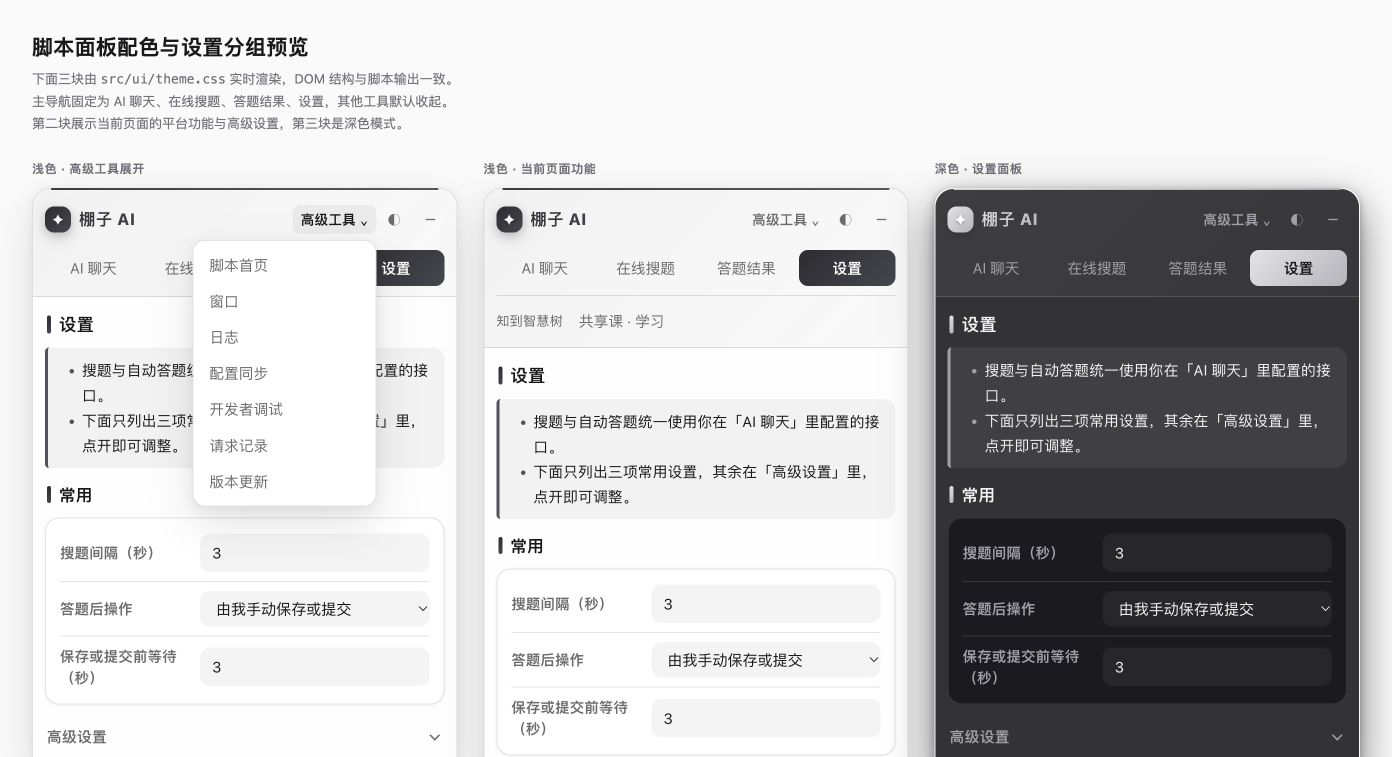
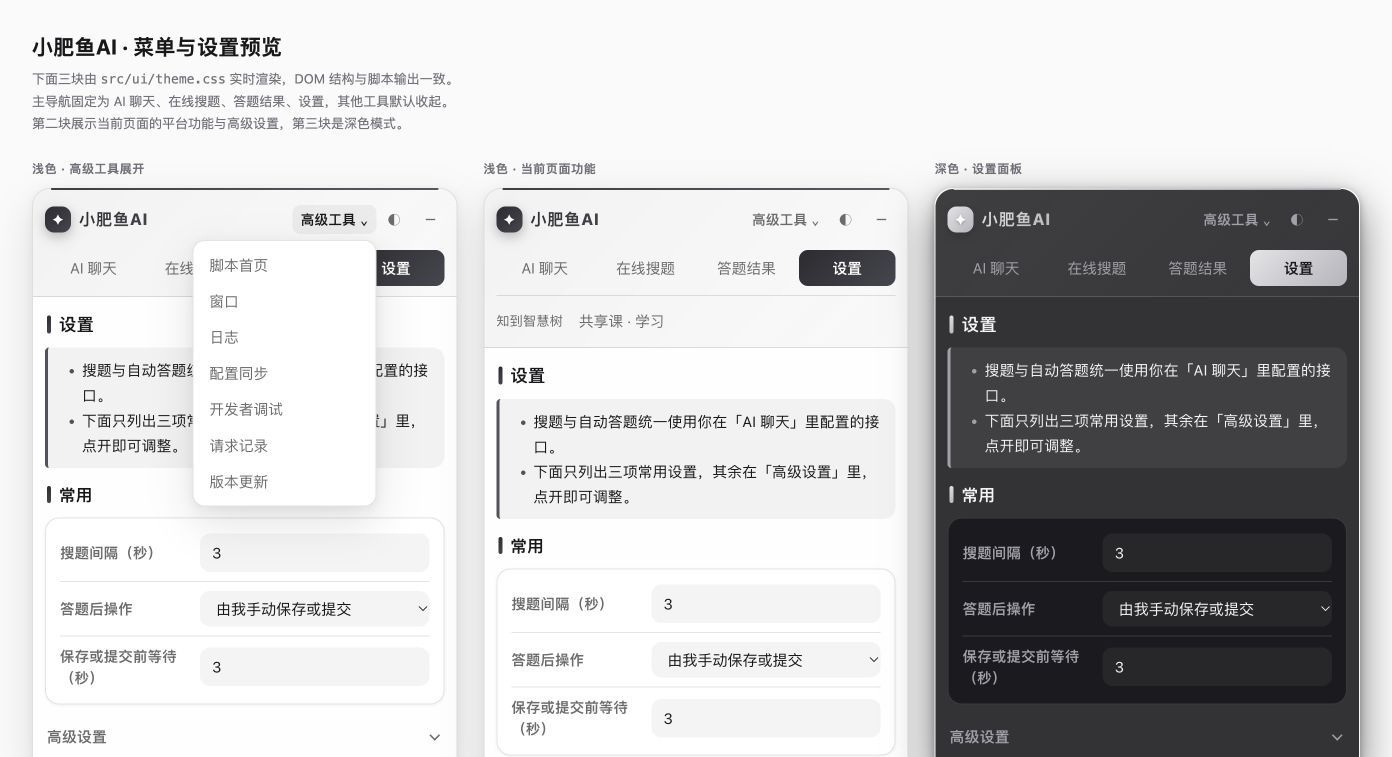
Rename the userscript and interface to 小肥鱼AI

diff --git a/preview/index.html b/preview/index.html
@@ -2,7 +2,7 @@
 <html lang="zh-CN">
 <head>
 <meta charset="utf-8">
-<title>脚本面板配色与设置分组预览</title>
+<title>小肥鱼AI · 菜单与设置预览</title>
 <style>
   :root { color-scheme: light; }
   body {
@@ -20,7 +20,7 @@
 </style>
 </head>
 <body>
-  <h1>脚本面板配色与设置分组预览</h1>
+  <h1>小肥鱼AI · 菜单与设置预览</h1>
   <p class="lede">
     下面三块由 <code>src/ui/theme.css</code> 实时渲染，DOM 结构与脚本输出一致。<br>
     主导航固定为 AI 聊天、在线搜题、答题结果、设置，其他工具默认收起。<br>
@@ -35,7 +35,7 @@
   <container-element>
     <header-element>
       <div class="header-layout"><div class="header-toolbar">
-        <div class="brand"><span class="brand-mark"></span><span class="brand-name">棚子 AI</span></div>
+        <div class="brand"><span class="brand-mark"></span><span class="brand-name">小肥鱼AI</span></div>
         <details class="advanced-tools" open>
           <summary>高级工具</summary><div class="tools-content"><button class="tool-item" type="button">脚本首页</button><button class="tool-item" type="button">窗口</button><button class="tool-item" type="button">日志</button><button class="tool-item" type="button">配置同步</button><button class="tool-item" type="button">开发者调试</button><button class="tool-item" type="button">请求记录</button><button class="tool-item" type="button">版本更新</button></div>
         </details>
@@ -73,7 +73,7 @@
   <container-element>
     <header-element>
       <div class="header-layout"><div class="header-toolbar">
-        <div class="brand"><span class="brand-mark"></span><span class="brand-name">棚子 AI</span></div>
+        <div class="brand"><span class="brand-mark"></span><span class="brand-name">小肥鱼AI</span></div>
         <details class="advanced-tools">
           <summary>高级工具</summary><div class="tools-content"><button class="tool-item" type="button">脚本首页</button><button class="tool-item" type="button">窗口</button><button class="tool-item" type="button">日志</button><button class="tool-item" type="button">配置同步</button><button class="tool-item" type="button">开发者调试</button><button class="tool-item" type="button">请求记录</button><button class="tool-item" type="button">版本更新</button></div>
         </details>
@@ -111,7 +111,7 @@
   <container-element>
     <header-element>
       <div class="header-layout"><div class="header-toolbar">
-        <div class="brand"><span class="brand-mark"></span><span class="brand-name">棚子 AI</span></div>
+        <div class="brand"><span class="brand-mark"></span><span class="brand-name">小肥鱼AI</span></div>
         <details class="advanced-tools">
           <summary>高级工具</summary><div class="tools-content"><button class="tool-item" type="button">脚本首页</button><button class="tool-item" type="button">窗口</button><button class="tool-item" type="button">日志</button><button class="tool-item" type="button">配置同步</button><button class="tool-item" type="button">开发者调试</button><button class="tool-item" type="button">请求记录</button><button class="tool-item" type="button">版本更新</button></div>
         </details>

diff --git a/xxx.js b/xxx.js
@@ -1,6 +1,6 @@
 // ==UserScript==
-// @name         棚子网课助手｜自定义 OpenAI 兼容 API｜AI聊天｜AI搜题
-// @version      2.44.1
+// @name         小肥鱼AI
+// @version      2.44.2
 // @homepageURL  https://github.com/shajinhui/ai-course-assistant
 // @supportURL   https://github.com/shajinhui/ai-course-assistant/issues
 // @updateURL    https://github.com/shajinhui/ai-course-assistant/releases/latest/download/ai-course-assistant.meta.js
@@ -2475,7 +2475,7 @@ var __publicField = (obj, key, value) => {
           } else if (script.projectName) {
             await $store.setTab($const.TAB_CURRENT_PANEL_NAME, `${script.projectName}-${script.name}`);
           } else {
-            console.warn("[OCS]", `${script.name} \u65E0\u6CD5\u7F6E\u9876\uFF0C projectName \u4E0E namespace \u90FD\u4E3A pengziAI`);
+            console.warn("[OCS]", `${script.name} 无法打开面板：缺少 projectName 和 namespace。`);
           }
         },
         minimize: () => {
@@ -2550,8 +2550,8 @@ var __publicField = (obj, key, value) => {
         const profile = $creator.tooltip(
           el(
             "div",
-            { className: "brand", title: "棚子AI" },
-            [el("span", { className: "brand-mark" }), el("span", { className: "brand-name" }, "棚子 AI")]
+            { className: "brand", title: "小肥鱼AI" },
+            [el("span", { className: "brand-mark" }), el("span", { className: "brand-name" }, "小肥鱼AI")]
           )
         );
         const panelButton = ({ project, script, label }, className = "nav-item") => {
@@ -7144,7 +7144,7 @@ ${content}</tr>
                     }
                   }
                 } else {
-                  return el("div", "棚子AI");
+                  return el("div", "小肥鱼AI");
                 }
               };
               render();
@@ -14516,14 +14516,14 @@ const { start, definedProjects, CommonProject } = OCS;
     `;
     const button = document.createElement("button");
     button.type = "button";
-    button.title = "AI 设置 / 聊天";
-    button.setAttribute("aria-label", "AI 设置 / 聊天");
+    button.title = "小肥鱼AI · 设置 / 聊天";
+    button.setAttribute("aria-label", "小肥鱼AI · 设置 / 聊天");
     const icon = document.createElement("span");
     icon.className = "icon";
     icon.textContent = "✦";
     const label = document.createElement("span");
     label.className = "label";
-    label.textContent = "AI 设置 / 聊天";
+    label.textContent = "小肥鱼AI";
     button.append(icon, label);
     shadow.append(css, button);
     host.onclick = async () => {

diff --git a/xxx.user.js b/xxx.user.js
@@ -1,6 +1,6 @@
 // ==UserScript==
-// @name         棚子网课助手｜自定义 OpenAI 兼容 API｜AI聊天｜AI搜题
-// @version      2.44.1
+// @name         小肥鱼AI
+// @version      2.44.2
 // @homepageURL  https://github.com/shajinhui/ai-course-assistant
 // @supportURL   https://github.com/shajinhui/ai-course-assistant/issues
 // @updateURL    https://github.com/shajinhui/ai-course-assistant/releases/latest/download/ai-course-assistant.meta.js
@@ -2475,7 +2475,7 @@ var __publicField = (obj, key, value) => {
           } else if (script.projectName) {
             await $store.setTab($const.TAB_CURRENT_PANEL_NAME, `${script.projectName}-${script.name}`);
           } else {
-            console.warn("[OCS]", `${script.name} \u65E0\u6CD5\u7F6E\u9876\uFF0C projectName \u4E0E namespace \u90FD\u4E3A pengziAI`);
+            console.warn("[OCS]", `${script.name} 无法打开面板：缺少 projectName 和 namespace。`);
           }
         },
         minimize: () => {
@@ -2550,8 +2550,8 @@ var __publicField = (obj, key, value) => {
         const profile = $creator.tooltip(
           el(
             "div",
-            { className: "brand", title: "棚子AI" },
-            [el("span", { className: "brand-mark" }), el("span", { className: "brand-name" }, "棚子 AI")]
+            { className: "brand", title: "小肥鱼AI" },
+            [el("span", { className: "brand-mark" }), el("span", { className: "brand-name" }, "小肥鱼AI")]
           )
         );
         const panelButton = ({ project, script, label }, className = "nav-item") => {
@@ -7144,7 +7144,7 @@ ${content}</tr>
                     }
                   }
                 } else {
-                  return el("div", "棚子AI");
+                  return el("div", "小肥鱼AI");
                 }
               };
               render();
@@ -14516,14 +14516,14 @@ const { start, definedProjects, CommonProject } = OCS;
     `;
     const button = document.createElement("button");
     button.type = "button";
-    button.title = "AI 设置 / 聊天";
-    button.setAttribute("aria-label", "AI 设置 / 聊天");
+    button.title = "小肥鱼AI · 设置 / 聊天";
+    button.setAttribute("aria-label", "小肥鱼AI · 设置 / 聊天");
     const icon = document.createElement("span");
     icon.className = "icon";
     icon.textContent = "✦";
     const label = document.createElement("span");
     label.className = "label";
-    label.textContent = "AI 设置 / 聊天";
+    label.textContent = "小肥鱼AI";
     button.append(icon, label);
     shadow.append(css, button);
     host.onclick = async () => {

diff --git a/src/kernel/20-ui-render.js b/src/kernel/20-ui-render.js
@@ -56,7 +56,7 @@
           } else if (script.projectName) {
             await $store.setTab($const.TAB_CURRENT_PANEL_NAME, `${script.projectName}-${script.name}`);
           } else {
-            console.warn("[OCS]", `${script.name} \u65E0\u6CD5\u7F6E\u9876\uFF0C projectName \u4E0E namespace \u90FD\u4E3A pengziAI`);
+            console.warn("[OCS]", `${script.name} 无法打开面板：缺少 projectName 和 namespace。`);
           }
         },
         minimize: () => {
@@ -131,8 +131,8 @@
         const profile = $creator.tooltip(
           el(
             "div",
-            { className: "brand", title: "棚子AI" },
-            [el("span", { className: "brand-mark" }), el("span", { className: "brand-name" }, "棚子 AI")]
+            { className: "brand", title: "小肥鱼AI" },
+            [el("span", { className: "brand-mark" }), el("span", { className: "brand-name" }, "小肥鱼AI")]
           )
         );
         const panelButton = ({ project, script, label }, className = "nav-item") => {

diff --git a/src/entries/ai-entry.js b/src/entries/ai-entry.js
@@ -38,14 +38,14 @@
     `;
     const button = document.createElement("button");
     button.type = "button";
-    button.title = "AI 设置 / 聊天";
-    button.setAttribute("aria-label", "AI 设置 / 聊天");
+    button.title = "小肥鱼AI · 设置 / 聊天";
+    button.setAttribute("aria-label", "小肥鱼AI · 设置 / 聊天");
     const icon = document.createElement("span");
     icon.className = "icon";
     icon.textContent = "✦";
     const label = document.createElement("span");
     label.className = "label";
-    label.textContent = "AI 设置 / 聊天";
+    label.textContent = "小肥鱼AI";
     button.append(icon, label);
     shadow.append(css, button);
     host.onclick = async () => {

diff --git a/src/kernel/32-project-common.js b/src/kernel/32-project-common.js
@@ -559,7 +559,7 @@
                     }
                   }
                 } else {
-                  return el("div", "棚子AI");
+                  return el("div", "小肥鱼AI");
                 }
               };
               render();

diff --git a/README.md b/README.md
@@ -1,6 +1,6 @@
-# 仅 AI 答题版油猴脚本
+# 小肥鱼AI
 
-版本 2.44.1。脚本使用用户自填的 OpenAI 兼容接口，聊天、搜题、作业考试与视频弹题都以该接口为唯一作答来源。
+版本 2.44.2。小肥鱼AI 是使用用户自填 OpenAI 兼容接口的油猴脚本，聊天、搜题、作业考试与视频弹题都以该接口为唯一作答来源。
 
 主导航固定为 **AI 聊天、在线搜题、答题结果、设置**。平台操作只显示当前页面及已登记 iframe 匹配的功能；首页、窗口、日志、配置同步和调试入口收进默认关闭的 **高级工具**。版本更新入口直接打开 GitHub Release，旧的检查更新面板不再出现在菜单中。旧版 AI 接口配置与面板选中记录继续兼容。
 
@@ -65,7 +65,7 @@ src/
     zz-epilogue.js               UMD 外壳收尾
   ui/theme.css                   ★ 主题样式（设计令牌 / 布局 / AI 面板 / 弹窗）
   entries/bootstrap.js           ★ 启动入口
-  entries/ai-entry.js            ★ 悬浮「AI 设置 / 聊天」按钮
+  entries/ai-entry.js            ★ 悬浮「小肥鱼AI」按钮
   entries/anti-copy-hook.js      ★ 反复制 Hook
 tools/
   module-map.mjs                 模块映射表（唯一的装配定义）
@@ -129,7 +129,7 @@ tests/                           接口、面板、构建、发布包测试
 | `kernel/zz-epilogue.js` | 13641 | UMD 外壳收尾 |
 | `ui/theme.css` | 13644–14270 | 主题样式（设计令牌 / 布局 / AI 面板 / 弹窗） `★` |
 | `entries/bootstrap.js` | 14274–14294 | 启动入口：组装 projects 并调用 start() `★` |
-| `entries/ai-entry.js` | 14300–14366 | 悬浮「AI 设置 / 聊天」按钮（Shadow DOM） `★` |
+| `entries/ai-entry.js` | 14300–14366 | 悬浮「小肥鱼AI」按钮（Shadow DOM） `★` |
 | `entries/anti-copy-hook.js` | 14368–14577 | 反复制 Hook：解锁页面文本选择 `★` |
 
 ## 维护流程
@@ -192,7 +192,7 @@ node tools/extract-from-bundle.mjs [原始文件路径]   # 默认读 .backup/20
 ## 使用
 
 1. 在 Tampermonkey 中用 `xxx.user.js` 替换原脚本，或把它的全部内容粘贴到原脚本编辑器并保存。避免同时启用新旧两份脚本。
-2. 打开脚本匹配的网课网站，点击右下角 **AI 设置 / 聊天**，或选择 **AI 聊天**。
+2. 打开脚本匹配的网课网站，点击右下角 **小肥鱼AI** 按钮，或选择 **AI 聊天**。
 3. 填写 **API 地址、API Key、模型名称**。离开输入框后自动保存，无需在代码里写 Key。
 4. 点击 **测试连接**。成功后可输入问题，点击发送，或按 Ctrl / ⌘ + Enter。清空对话会重置上下文。
 5. 手动搜题入口是 **在线搜题**。完成接口配置后，搜题与原平台的自动答题流程直接调用 AI，无需选择答题来源。
